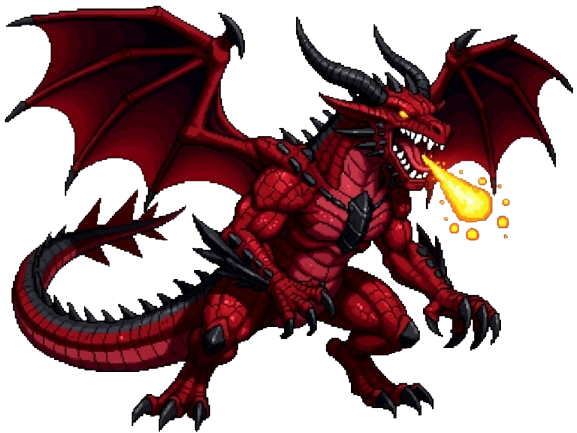
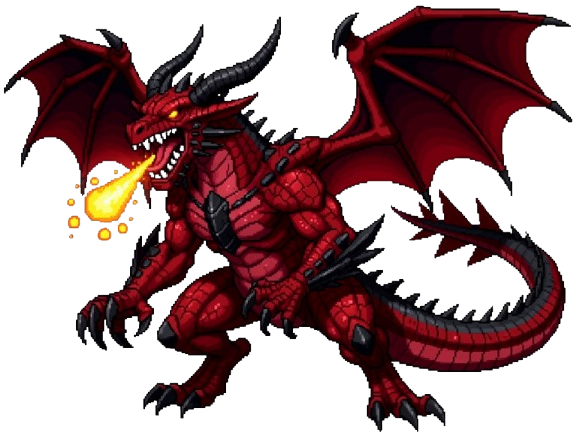
hihihihi

diff --git a/frontend/src/components/enemy/enemy.tsx b/frontend/src/components/enemy/enemy.tsx
@@ -18,7 +18,7 @@ export default function Enemy({ s }: EnemyProps) {
         <div className="w-full h-[30vh] flex flex-col items-center justify-center rounded-lg border border-slate-800 bg-slate-950/90 p-4 shadow-2xl shadow-slate-950/50 backdrop-blur-xl shrink-0">
             <span className="text-[0.8vw] uppercase tracking-[0.2em] text-secondary mb-2">Current Target</span>
             <div className="font-semibold text-[1vw] text-red-400/90">
-            <Image src={types[s]} alt="Enemy" className="scale-x-[-1] animate-bob"/>
+            <Image src={types[s]} alt="Enemy" className="animate-bob"/>
             </div>
         </div>
     );
